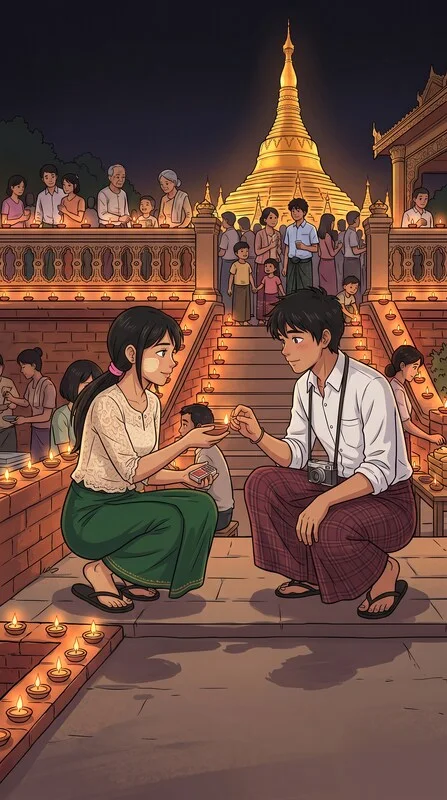
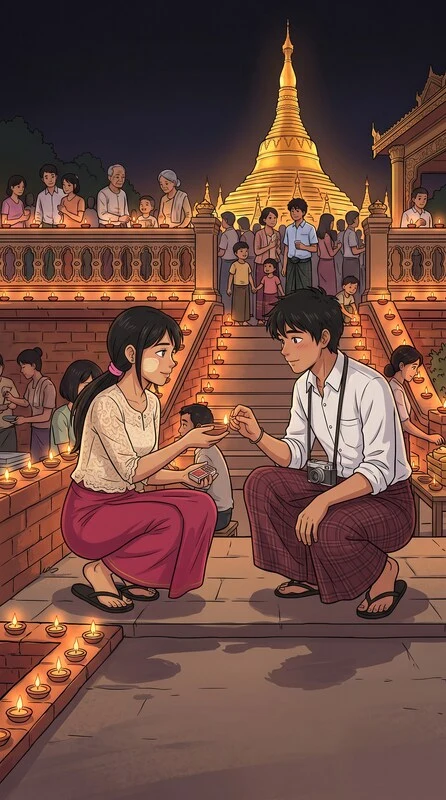
Ch3: padauk side moment, mango polaroid no longer zooms out of its frame, May's Thadingyut htamein now rose-pink
Claude-Session: https://claude.ai/code/session_01EzvUtRavncbLs7RHFedc6g

diff --git a/index.html b/index.html
@@ -383,6 +383,23 @@ img{display:block;user-select:none;-webkit-user-drag:none}
 #end .mh{font:600 15px/20px var(--sans);margin:22px 0 10px;display:flex;gap:8px;align-items:baseline}#end .mh span{font-weight:400;color:var(--ink-muted,#7b858c);font-size:13px}#end .mhs{font:400 13px/18px var(--sans);color:var(--ink-muted,#7b858c);margin:-4px 0 10px}#end .mh+ .mgrid{margin-top:0}
 
 /* water street side quest */
+#padauk{background:#1d2a2c;overflow:hidden}
+#pdBg{position:absolute;inset:0;width:100%;height:100%;object-fit:cover;pointer-events:none;user-select:none}
+#padauk .ph{position:absolute;left:0;right:0;top:0;padding:52px 20px 40px;background:linear-gradient(rgba(20,30,32,.78),rgba(20,30,32,0));color:#fff;z-index:3}
+#padauk .eb{font:600 12px/16px var(--sans);color:#ffd36b;letter-spacing:.02em}
+#padauk h2{font:600 22px/28px var(--serif);margin-top:2px}
+#padauk .sub{font:400 13px/18px var(--sans);opacity:.85;margin-top:4px}
+#padauk .tb{height:6px;border-radius:999px;background:rgba(255,255,255,.25);margin-top:12px;overflow:hidden}
+#padauk .tb i{display:block;height:100%;width:100%;background:#ffd36b;border-radius:999px;transform-origin:left}
+#padauk .spot{position:absolute;width:84px;height:84px;margin:-42px 0 0 -42px;border-radius:50%;border:3px solid #fff3c4;box-shadow:0 0 0 6px rgba(255,211,107,.35),0 0 24px rgba(255,211,107,.8);z-index:2;animation:pdPulse 1.1s ease-in-out infinite alternate;transition:opacity .4s,transform .4s}
+#padauk .spot.gone{opacity:0;transform:scale(.5);pointer-events:none}
+@keyframes pdPulse{to{box-shadow:0 0 0 12px rgba(255,211,107,.15),0 0 34px rgba(255,211,107,1)}}
+#padauk .pop{position:absolute;z-index:4;transform:translate(-50%,0);font:600 13px/17px var(--sans);color:#fff;background:rgba(20,30,32,.75);padding:5px 10px;border-radius:999px;white-space:nowrap;animation:wsUp 1.6s forwards}
+#pdPick{position:absolute;inset:0;z-index:5;background:rgba(20,30,32,.72);display:none;flex-direction:column;align-items:center;justify-content:center;padding:24px;text-align:center;color:#fff}
+#pdPick .zoom{width:220px;height:220px;border-radius:50%;border:6px solid #fff3c4;background-repeat:no-repeat;box-shadow:0 20px 50px rgba(0,0,0,.4);animation:pop .5s ease}
+#pdPick h2{font:600 22px/28px var(--serif);margin-top:20px}
+#pdPick p{font:400 14px/20px var(--sans);opacity:.85;margin-top:6px;max-width:300px}
+#pdPick button{margin-top:22px;padding:14px 28px;border-radius:999px;background:#fffaf2;color:#1d2a2c;font:600 15px/20px var(--sans)}
 #wstreet{background:#2b3a3c;overflow:hidden}
 #wsField{position:absolute;inset:0;overflow:hidden;overflow:clip;touch-action:none}
 #wsBg{position:absolute;inset:0;width:100%;height:100%;object-fit:cover;user-select:none;pointer-events:none}
@@ -484,6 +501,8 @@ img{display:block;user-select:none;-webkit-user-drag:none}
       <div id="vf"><div class="bar"><span id="vfBack" role="button">Back</span><b id="vfName"></b><span id="vfCount"></span></div><div class="win" id="vfWin"><div class="pan" id="vfPan"></div><div class="fr" id="vfFr"><div class="mask"></div><i></i><i></i><i></i><i></i></div><div class="hint" id="vfHint">Drag to frame</div><div class="flashw" id="vfFlash"></div><div class="res" id="vfRes"></div></div><div class="ctl"><button class="shut" id="vfShut" aria-label="Take photo"></button></div></div>
     </div>
 
+    <div class="view" id="padauk"><img id="pdBg" src="img/c3-padauk.webp" alt="" draggable="false"><div class="ph"><div class="eb">Side moment · Padauk</div><h2>Pick one for May's hair</h2><p class="sub">Tap a sprig before the aunties' hooked poles get there.</p><div class="tb"><i id="pdT"></i></div></div>
+      <div id="pdPick"><div class="zoom" id="pdZoom"></div><h2 id="pdName"></h2><p id="pdLine"></p><button id="pdGo">Keep it for May</button></div></div>
     <div class="view" id="wstreet"><div id="wsField"></div>
       <div id="wsHud"><div class="row"><i class="ic i-music-notes"></i><div class="song"><i id="wsSongI"></i><b></b></div></div><div class="lives" id="wsLives"></div></div>
       <div id="wsCount"></div><div id="wsCard"></div></div>
@@ -784,6 +803,7 @@ async function exec(s){
   case 'outPhoto': await outgoing({k:'photo',art:v});break;
   case 'photowalk': await photoWalk();break;
   case 'waterstreet': await waterStreet();break;
+  case 'padauk': await padaukPick();break;
   case 'inCall': await incoming({k:'call',text:v});break;
   case 'inSticker': await incoming({k:'sticker',art:v});break;
   case 'out': await outgoing({k:'text',text:v});break;
@@ -884,6 +904,30 @@ async function photoWalk(){
     $('#pwDone').onclick=e=>{e.stopPropagation();done()};
   });
   S.flags.c2_walk_framed=S.walk.filter(w=>w.ok).length;
+}
+async function padaukPick(){
+  const V=$('#padauk'),bg=$('#pdBg');[...V.querySelectorAll('.spot,.pop')].forEach(e=>e.remove());$('#pdPick').style.display='none';$('#pdT').style.transform='scaleX(1)';
+  show('padauk');if(!bg.complete)await new Promise(r=>bg.onload=r);
+  const W=V.clientWidth,H=V.clientHeight,IW=450,IH=800,sc=Math.max(W/IW,H/IH),ox=(W-IW*sc)/2,oy=(H-IH*sc)/2,sp=S.speed>1?3:1;
+  const P={full:[.31,.22,'The fullest one, up high','Min climbs the wall for it. Daw Khin next door holds the wall steady and tells him he\'ll break his neck.'],
+           buds:[.755,.43,'A young one, still in bud','Not open yet. By the afternoon it will be.'],
+           fallen:[.47,.76,'The one that fell on the wall','The aunties got the rest. This one was waiting on the bricks.']};
+  const xy=k=>({x:ox+P[k][0]*IW*sc,y:oy+P[k][1]*IH*sc});
+  const el={};for(const k in P){const d=document.createElement('div');d.className='spot';const q=xy(k);d.style.left=q.x+'px';d.style.top=q.y+'px';V.appendChild(d);el[k]=d}
+  const pop=(k,t)=>{const p=document.createElement('div');p.className='pop';const q=xy(k);p.textContent=t;p.style.left=q.x+'px';p.style.top=(q.y-70)+'px';V.appendChild(p);setTimeout(()=>p.remove(),1600)};
+  const DUR=10000/sp,t0=performance.now();let pick=null,timers=[];
+  const take=(k,at)=>timers.push(setTimeout(()=>{if(pick)return;el[k].classList.add('gone');el[k].dataset.gone=1;pop(k,'An aunty\'s hook got it')},at/sp));
+  take('full',5000);take('buds',8000);
+  pick=await new Promise(res=>{
+    for(const k in el)el[k].onpointerdown=e=>{e.stopPropagation();if(el[k].dataset.gone)return;res(k)};
+    (function tick(){const p=Math.min(1,(performance.now()-t0)/DUR);$('#pdT').style.transform=`scaleX(${1-p})`;if(p>=1)return res('fallen');if(!V.classList.contains('on'))return;requestAnimationFrame(tick)})();
+  });
+  timers.forEach(clearTimeout);for(const k in el)el[k].onpointerdown=null;
+  S.flags.c3_padauk=pick;Audio_.blip(true);
+  const z=$('#pdZoom'),q=xy(pick),Z=3.2;z.style.backgroundImage='url(img/c3-padauk.webp)';
+  z.style.backgroundSize=`${IW*sc*Z}px ${IH*sc*Z}px`;z.style.backgroundPosition=`${104-(q.x-ox)*Z}px ${104-(q.y-oy)*Z}px`;
+  $('#pdName').textContent=P[pick][2];$('#pdLine').textContent=P[pick][3];$('#pdPick').style.display='flex';
+  await new Promise(r=>{$('#pdGo').onclick=e=>{e.stopPropagation();r()}});
 }
 async function waterStreet(){
   const V=$('#wstreet'),f=$('#wsField'),card=$('#wsCard'),hud=$('#wsHud');
@@ -1332,7 +1376,7 @@ SCENE.mayEnd='<img src="img/c3-may-end.webp" alt="" draggable="false">';
 SCENE.crowd='<img src="img/c3-crowd.webp" alt="" draggable="false">';
 SCENE.crowdLetGo='<img src="img/c3-letgo.webp" alt="" draggable="false">';
 SCENE.mango='<img src="img/c3-mango.webp" alt="" draggable="false">';
-SCENE.mangoPhoto='<div style="position:absolute;inset:0;background:#1a1f1e;display:flex;align-items:flex-start;justify-content:center;padding-top:22%"><div style="width:84%;background:#f6f1e7;padding:10px 10px 34px;border-radius:4px;box-shadow:0 10px 30px rgba(0,0,0,.4);transform:rotate(-2deg)"><img src="img/thingyan.webp" alt="" draggable="false" style="position:static;width:100%;height:auto;display:block"></div></div>';
+SCENE.mangoPhoto='<div style="position:absolute;inset:0;background:#1a1f1e;display:flex;align-items:flex-start;justify-content:center;padding-top:22%"><div style="width:84%;background:#f6f1e7;padding:10px 10px 34px;border-radius:4px;box-shadow:0 10px 30px rgba(0,0,0,.4);transform:rotate(-2deg)"><img src="img/thingyan.webp" alt="" draggable="false" style="position:static;width:100%;height:auto;display:block;animation:none;transform:none"></div></div>';
 SCENE.towel='<img src="img/c3-towel.webp" alt="" draggable="false">';
 SCENE.pagoda19='<img src="img/c3-pagoda19.webp" alt="" draggable="false">';
 SCENE.lamp2='<img src="img/c3-lamp2.webp" alt="" draggable="false">';
@@ -1349,6 +1393,20 @@ const CH3=[
    {label:'Call me. Read me the questions.',send:'Call me. Read me the questions.',then:[{inCall:'Voice call · 2:14:07'},{in:'you fell asleep on question 40'},{in:'I could hear you breathing. you sound like a fan'}]}]}},
  {in:"if I pass I'm buying you a new umbrella"},
  {pause:900},
+ // C3.2 Thingyan morning · padauk
+ {rain:0},{time:'6:12 AM'},
+ {notify:{c:'may',text:'MIN',div:'13 Apr 2019',rows:[{c:'thura',text:'truck. 2pm. bring nothing dry',time:'Fri'}]}},
+ {in:'the padauk bloomed last night'},
+ {in:'the big tree on your lane'},
+ {in:'the aunties will have it stripped by 8'},
+ {in:"I'm not asking. I'm just saying"},
+ {padauk:true},
+ {time:'6:31 AM'},
+ {open:{c:'may'}},
+ {if:{test:f=>f.c3_padauk==='full',then:[{out:'Got the best one. Had to climb the wall'},{in:'MIN'},{in:'are you hurt'},{out:"Daw Khin held the wall. She says you owe her a bowl of water"},{in:'deal'}]}},
+ {if:{test:f=>f.c3_padauk==='buds',then:[{out:"Got one. It's not open yet"},{in:'oh'},{in:"so it'll still be open tonight"},{in:"that's actually smart. who are you"}]}},
+ {if:{test:f=>f.c3_padauk==='fallen',then:[{out:'The aunties got the tree. I found one on the wall'},{in:'off the WALL'},{in:"…it's still the best one. bring it"}]}},
+ {pause:900},
  // C3.2 Thingyan
  {rain:0},{time:'2:40 PM'},
  {scene:{art:'wstreet',cap:'Thingyan · 13 April 2019',rain:0}},
@@ -1357,6 +1415,10 @@ const CH3=[
  {waterstreet:true},
  {scene:{art:'mayEnd',cap:'',rain:0}},
  {if:{test:f=>f.c3_wet==='dry',then:[{say:['May',"How are you dry? That's illegal on Thingyan."]},{narr:'She fixes that with one bowl of water.'}],else:[{say:['May',"You're supposed to splash me, not get splashed!"]}]}},
+ {narr:'The padauk is in her hair. Still there, somehow, after all that water.'},
+ {if:{test:f=>f.c3_padauk==='full',then:[{say:['May',"You climbed a wall for this. It's staying in all day."]}]}},
+ {if:{test:f=>f.c3_padauk==='buds',then:[{say:['May','Look. It opened.']}]}},
+ {if:{test:f=>f.c3_padauk==='fallen',then:[{say:['May','Nobody needs to know it was on a wall.']}]}},
  {shot:'crowd'},
  {narr:'A crowd pushes past the pandal. May grabs Min\'s hand so she doesn\'t lose him.'},
  {if:{test:f=>f.c2_friends===true,then:[{narr:"She doesn't let go. Under the tea shop awning, Hnin sees, and goes back to folding towels."}],else:[{narr:'Someone from her street calls her name.'},{shot:'crowdLetGo'},{narr:'She lets go, quick, like it never happened.'}]}},
